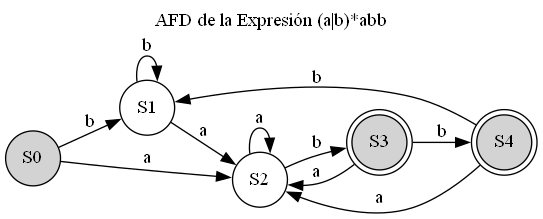
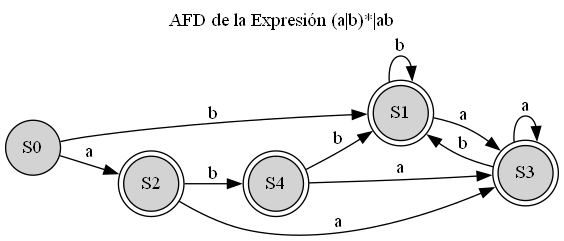
Se arregla final states

diff --git a/afn.py b/afn.py
@@ -73,7 +73,6 @@ class AFN(object):
         # Se obtienen los dos caracteres para realizar la operacion
         character_1 = self.characters_stack.pop()
         character_2 = self.characters_stack.pop()
-        print(character_1, character_2)
 
         # Si el primer caracter es otra operacion
         if(character_1 in ".|*+?"):
@@ -365,9 +364,6 @@ class AFN(object):
             # Se hacen dos sets para lograr hacer operaciones de conjuntos entre ellos
             set_states = set(Dstates[state_counter])
             set_final_states = set(self.final_state)
-            print(states[state_counter])
-            print(set_states)
-            print(set_final_states)
 
             # Se verifica que los estados encontrados se encuentren en el conjunto de estados finales
             if(set_states.intersection(set_final_states).__len__() != 0):
@@ -421,13 +417,11 @@ class AFN(object):
             state = states_stack.pop()
             # Se revisa en cada transicion
             for i in self.transitions:
-                # Se revisa que tenga transicion con ε 
+                # Se revisa que tenga transicion con el caracter
                 if(i[0] == state and i[1] == character):
                     # Si el estado no esta en los resultados se ingresa
                     if(i[2] not in states_result):
                         states_result.append(i[2])
-                        states_stack.append(i[2])
-        
         # Se retorna el resultado
         return states_result
 

diff --git a/main.py b/main.py
@@ -4,7 +4,7 @@
 from afn import *
 
 #text = "(a(a?b*|c+)b|baa)"
-text = "(a|b)*abb"
+text = "(a|b)*|ab"
 
 afn = AFN(text)
 print(afn.transitions)
